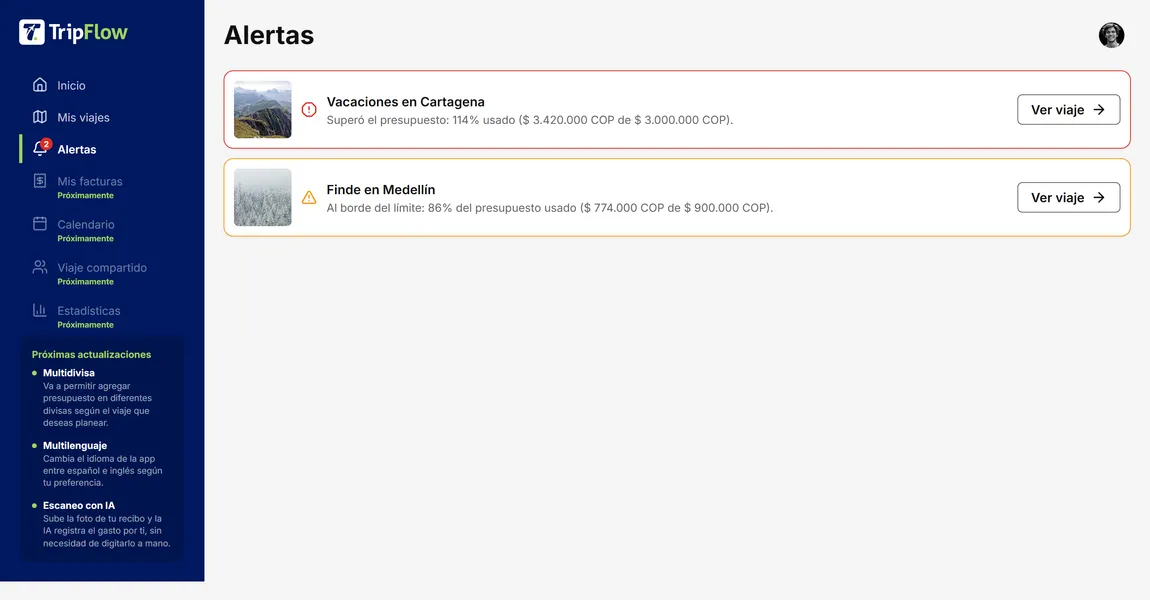
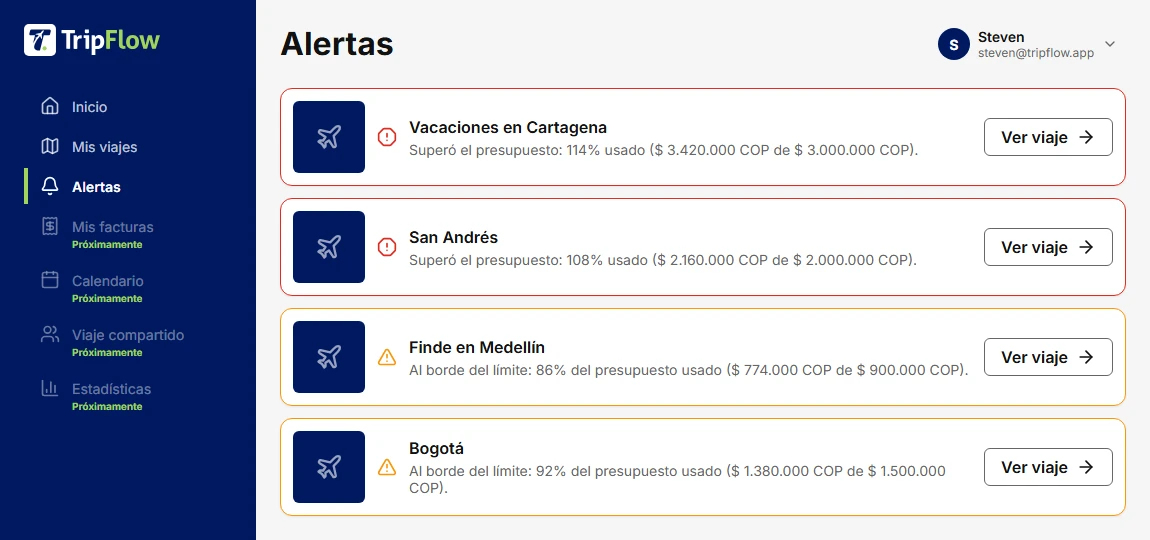
fix(landing): regenera capturas de whatsapp, calendar y alertas con contenido completo en vez de espacios vacios
Claude-Session: https://claude.ai/code/session_01Nwk6v4zo9ov8bnx9q719J9

diff --git a/src/pages/landing.js b/src/pages/landing.js
@@ -99,18 +99,18 @@ function stepCard({ title, text, image }, index) {
 
 // Las 6 tarjetas comparten EXACTAMENTE el mismo tratamiento visual
 // (mismo marco de navegador, misma caja de imagen 16:10, mismo
-// object-fit) — ya no existe la distinción "browser"/"snippet" que
-// había antes, que dejaba las 2 últimas (WhatsApp/Calendar) como un
-// botón suelto sin marco ni contexto, con tamaño inconsistente frente
-// a las otras 4. whatsapp.png ahora es un mockup del bubble real de
-// WhatsApp con el mensaje que arma buildShareMessage() en
-// trip-detail.js (extraído del href real del link, no retipeado a
-// mano); google-calendar.png es el botón real "Agregar a Google
-// Calendar" clonado del DOM junto al badge de estado, en su contexto
-// real — ver docs/ai-process.md para el detalle de cómo se generaron.
-// width/height por imagen (dimensión real del .webp, ver docs/ai-process.md):
-// no son un placeholder, es la reserva de espacio nativa del navegador
-// (evita layout shift al cargar, mismo tamaño de caja que ya fija
+// object-fit: cover). Cada captura se generó (o regeneró) para llenar
+// esa caja con interfaz real, en vez de recortar/estirar una imagen
+// chica: alertas.webp es la pantalla real de Alertas con 4 viajes de
+// muestra (antes 2, dejaban medio contenedor vacío); whatsapp.webp y
+// google-calendar.webp son mockups de la interfaz COMPLETA de cada app
+// externa (header, fondo/grid, el mensaje o evento real, barra de
+// input/badge de origen) construidos a mano en 1150×719 (16:10 exacto,
+// sin necesidad de recorte) — ya no son solo el bubble o el botón
+// sueltos flotando en espacio en blanco. width/height por imagen
+// (dimensión real del .webp, ver docs/ai-process.md): no son un
+// placeholder, es la reserva de espacio nativa del navegador (evita
+// layout shift al cargar, mismo tamaño de caja que ya fija
 // aspect-ratio:16/10 en CSS — Lighthouse pedía además los atributos
 // HTML, no solo el aspect-ratio de CSS).
 // object-position por imagen: con object-fit:cover, la caja 16:10
@@ -155,7 +155,7 @@ const FEATURES = [
     text: "Verde mientras vas bien, naranja al 80% del límite, rojo al superarlo — el mismo criterio en Inicio, Alertas y cada viaje, siempre con ícono y texto, nunca solo color.",
     image: alertasImg,
     width: 1150,
-    height: 600,
+    height: 540,
     // Más ancha que la caja: cover recorta de los costados. "right"
     // se come sobre todo el sidebar de navegación (repetido en las
     // otras 5 capturas, no es información nueva acá) y conserva
@@ -168,17 +168,16 @@ const FEATURES = [
     title: "Compartir por WhatsApp",
     text: "Mandá un resumen del estado de tu viaje — gastado, restante, semáforo — directo por WhatsApp, sin exportar nada.",
     image: whatsappImg,
-    width: 920,
-    height: 382,
-    position: "65% center",
+    width: 1150,
+    height: 719,
   },
   {
     iconName: "calendar",
     title: "Integración con Google Calendar",
     text: "Si tu viaje tiene fechas, agregalo a tu calendario con un click — un link directo, sin pedirte permisos de tu cuenta.",
     image: calendarImg,
-    width: 822,
-    height: 478,
+    width: 1150,
+    height: 719,
   },
 ];
 

diff --git a/docs/ai-process.md b/docs/ai-process.md
@@ -160,6 +160,8 @@
 
 | 2026-08-25 | Chequeo final de limpieza, performance, SEO y verificación mobile de la landing antes de la entrega (design@alegra.com) — sin agregar funcionalidad nueva, solo auditar y corregir. 4 categorías: (1) limpieza de código (build sin errores, consola sin warnings, código/imágenes muertas); (2) performance (peso de imágenes, lazy loading, pesos de fuente sin uso, Lighthouse antes/después); (3) SEO/metadatos (title, description, favicon, Open Graph, html lang, alt en todas las imágenes); (4) verificación mobile completa | **Limpieza**: `vite build` sin errores ni warnings nuevos (el único warning existente, "chunk mayor a 500kB", es del bundle `index.js` de TODA la app, no de la landing — necesitaría code-splitting por ruta, cambio de arquitectura fuera de alcance de esta auditoría). Consola del navegador limpia en desktop y mobile (0 errores/warnings, 0 requests fallidos, verificado con Playwright escaneando toda la página con scroll). Encontré y borré `.feature-card-full` en `landing.css`, una clase ya sin ningún uso en `landing.js` desde una tarea anterior (confirmado con `grep`) — dead code real, no una que dejé a medias yo. **Performance — la parte más grande de esta tarea**: audité el peso de las 10 imágenes de la landing y encontré que pesaban ~8.75MB en total, varias muy por encima del rango pedido (`inicio.png` 1047KB, las 3 fotos de "Cómo funciona" 1.8-2.3MB CADA UNA, `Imagen-fondo-banner-principal.png` 889KB) — ninguna había sido optimizada al subirla, todas a resolución nativa de cámara/captura/generador de imagen, mucho más grande de lo que se ve en pantalla (el slot más ancho de toda la página, el hero, nunca pasa de ~700px reales). No tengo `sharp` instalado en este entorno (ya lo había confirmado en una tarea anterior), pero `npx --yes sharp-cli` sí pudo descargarse y correr — con eso reescalé cada imagen a su ancho de display real ×2 (retina) y las reencodeé a WebP (calidad 78-85 según el contenido: capturas de UI más alto, fotos más bajo), revisando cada resultado visualmente antes de reemplazar el archivo — ninguna con pérdida perceptible. Resultado: ~8.75MB → ~455KB (95% menos). Actualicé los imports/URLs de `landing.js` de `.png` a `.webp` y borré los 10 PNG originales. El hero (arriba del fold) correctamente no lleva `loading="lazy"` — le sumé `fetchpriority="high"` en cambio, es el elemento LCP de la página; el resto ya tenía lazy de tareas anteriores. Revisé los pesos de Google Fonts: el link pedía 400;500;600;700;800;900 pero `grep` confirmó que ningún `font-weight:500` ni `:900` existe en NINGUNA hoja de estilo del proyecto — los saqué del link (2 archivos de fuente menos por descargar). Corrí Lighthouse (funcionó vía `npx --yes lighthouse`, pese a no estar instalado) contra el build de producción servido con `vite preview`: Performance 63→70, SEO 92→100, Accessibility 94→100. Aclaración importante sobre esos números: NO son un "antes/después" real de la optimización de imágenes — ya las había reemplazado por WebP cuando se me ocurrió medir con Lighthouse, así que las 2 corridas comparadas reflejan los fixes de accesibilidad/SEO de más abajo, no el salto de las imágenes; el dato real de antes/después de las imágenes es el peso en bytes (~8.75MB → ~455KB), que sí medí de forma precisa en ambos extremos. Además, correr Lighthouse contra `vite preview` local (sin HTTP/2, sin compresión, sin CDN) no es representativo del deploy real en Vercel — los tiempos de FCP/LCP (3.7s/5.8s) son mucho más lentos de lo esperable para ~500KB de imágenes, casi seguro por el throttling simulado de Lighthouse combinado con el servidor local, no por el peso real de la página; lo dejo señalado en vez de presentar esos segundos como el estado real en producción. **SEO/Accessibility** (mismo Lighthouse, categorías aparte): agregué `<link rel="icon">` (favicon, no existía ninguno) con el isotipo de marca ya existente en `public/img/`; `<title>` pasó de "Tripflow" a "TripFlow — Control de presupuesto de viaje"; reescribí `<meta name="description">` con una frase más completa; agregué Open Graph completo (og:title/description/image/url, más twitter:card) con URL absoluta al dominio real de deploy (`tripflow-ashen-chi.vercel.app`, confirmado en README.md) — importante porque el link va directo a design@alegra.com. `<html lang="es">` ya estaba bien, no hacía falta tocarlo. Agregué `alt` descriptivo a la única imagen que lo tenía vacío (los 3 pasos de "Cómo funciona", antes `alt=""` — el resto ya tenía alt descriptivo de tareas anteriores). Lighthouse encontró 3 problemas reales que no estaban en el pedido explícito pero caen directo en "corregir lo que aparezca": (a) el `<em>bajo control</em>` del título del hero tenía ~1.6:1 de contraste (necesita 3:1) — es la MISMA corrección que ya había hecho en una tarea anterior de esta sesión (`--color-status-ok-text` en vez de `--color-accent`), pero el archivo tenía `--color-accent` de nuevo al momento de esta auditoría (cambio en disco fuera de mis ediciones, ya señalado por el sistema en su momento); restauré la versión con contraste correcto. (b) La página no tenía ningún landmark `<main>` — envolví el contenido real (hero + las 3 secciones) en `<main>`, dejando el nav flotante y el footer como hermanos afuera (semánticamente correctos como `<nav>`/`<footer>`, no adentro de `<main>`). (c) No existía `public/robots.txt` — Lighthouse interpretaba el fallback HTML de la SPA como un robots.txt inválido (43 errores); agregué uno mínimo (`User-agent: * / Allow: /`). También agregué `width`/`height` explícitos a las 11 imágenes de la landing (dimensión real de cada `.webp`, no un valor inventado) — Lighthouse los pedía aparte del `aspect-ratio` de CSS que ya reservaba el espacio visualmente (CLS ya era 0.015, casi perfecto, pero el audit específico de HTML seguía fallando sin el atributo). Resultado final: SEO 92→100, Accessibility 94→100. **Verificación mobile**: recorrido completo con Playwright (390px de viewport, con scroll forzado a lo largo de toda la página para disparar las imágenes lazy) — sin overflow horizontal en ningún punto, sin imágenes rotas, 0 errores de consola. Encontré 4 elementos clickeables con menos de 44px de alto (logo del nav 28px, botón hamburguesa 36px, link "Código en GitHub" del footer 37px, y el link inline "docs/ai-process.md" dentro de una oración del footer, que por ser texto corrido no debería forzarse a 44px como si fuera un botón) — no los agrandé por mi cuenta: tocar el alto del pill flotante o del hamburguesa es un cambio de proporciones visuales del nav, una decisión de diseño ya tomada en tareas anteriores de esta sesión, no un bug a corregir en silencio; lo dejo como hallazgo para que decidas. No pude probar en dispositivo físico real (mismo límite ya señalado en tareas anteriores de esta sesión) — verifiqué con Playwright en varios anchos de viewport en su lugar. Verifiqué con `vite build` que compilara, sin warnings nuevos, en cada paso de esta auditoría | Hallazgos que requieren tu decisión, sin tocar: los 4 tap targets bajo 44px (logo/hamburguesa/link de GitHub del footer), el bundle único de 694KB de JS que no es solo de la landing (necesitaría code-splitting por ruta para separarlo del resto de la app), y el request de Google Fonts que Lighthouse sigue marcando como render-blocking (~900ms estimados, aplicaría a toda la app, no solo la landing) — ninguno de los 3 lo toqué porque cada uno implica un cambio de diseño/arquitectura más allá de "auditar y corregir lo que aparezca" |
 
+| 2026-08-25 | Ajustar el `feature-grid` de la landing: primer pedido vago ("hay un espacio vacío atrás del padding del grid, en desktop y mobile"), que resolví cambiando `.browser-frame-media` de `object-fit:contain` a `cover` con un `object-position` a mano por imagen (top/right/65% center según cuánto se alejaba cada captura nativa de la caja 16:10). El usuario corrigió el enfoque después: "eso NO es el enfoque correcto… se resuelve generando capturas con MÁS contenido real, no estirando imágenes vacías" — pidió regenerar las 3 capturas que realmente tenían fondo vacío *dentro del archivo* (Alertas, WhatsApp, Google Calendar), dejando las otras 3 (Dashboard, Nuevo viaje, Registro de gastos) sin tocar porque su recorte por `cover` ya caía sobre contenido real, no sobre espacio en blanco | Revertí `width`/`height`/`position` de las 3 imágenes afectadas, no el CSS de `.browser-frame-media` (`cover` en sí seguía siendo válido para las 3 que no tenían el problema real). **Alertas**: regeneré con el mismo harness Playwright de tareas anteriores (import real de `renderShell`/`accountMenu`/`getBudgetStatus`/`getStatusMeta`/`icon`/`formatCurrency` vía Vite dev server, con datos de viaje fijados a mano en vez de `getTripAlerts()` real, que depende de Firestore) pero con 4 viajes de alerta en vez de 2 (agregué "San Andrés" en danger y "Bogotá" en warning, sin foto — reusa el placeholder de avión ya documentado en "Estado vacío del placeholder de viaje" de `product-decisions.md` en vez de salir a buscar fotos de stock nuevas). Verde/"en control" queda afuera a propósito: `getTripAlerts()` real NUNCA devuelve viajes en ok (por diseño, esta pantalla es solo para los que necesitan atención), así que forzar un tercer estado ahí habría sido inventar un comportamiento que la app real no tiene — se lo señalé al usuario en vez de fabricarlo silenciosamente pese a que el pedido decía "si es posible". Medí con `boundingBox()` dónde termina realmente el último `.alert-item` (516px) en vez de adivinar un alto de canvas fijo como la versión anterior (que había usado 600px con los 2 items terminando en ~240px, de ahí el espacio muerto original) — con eso fijé el viewport a 1150×540, ajustado al contenido real. A esa altura la tarjeta "Próximas actualizaciones" del sidebar (empujada al fondo por `flex:1` en `.sidebar-nav`) quedaba cortada a mitad de frase porque no alcanzaba a renderizarse completa — la saqué del DOM solo en este harness (`.sidebar-upcoming.remove()`) antes de capturar, no de la app real ni de las otras 5 imágenes, que sí tienen alto de sobra para mostrarla completa. **WhatsApp y Google Calendar**: a diferencia de Alertas (pantalla real de TripFlow), estas 2 nunca fueron capturas de la app — son mockups de la interfaz de una app externa (antes, solo el bubble/botón recortado del DOM real de Detalle de viaje). Construí cada una desde cero como HTML/CSS (headers, colores y patrones reales de cada marca — mismo criterio que ya se usó para el bubble verde de WhatsApp en la versión anterior, no una regla nueva) directamente a 1150×719 (16:10 exacto), así ninguna de las 2 necesita recorte de `cover` en absoluto. WhatsApp: header verde con avatar (isotipo de marca real en `public/img/Isotipo-fondo-claro.svg`) + nombre "TripFlow", fondo de chat con el patrón punteado característico, el aviso real de "mensajes cifrados de extremo a extremo" (elemento genuino de la UI de WhatsApp, no inventado) para llenar el espacio arriba del mensaje con interfaz auténtica en vez de una segunda conversación fabricada, el mismo bubble/texto ya generado en una tarea anterior (sin tocarlo), y la barra de input real (emoji, clip, mic) vacía. Google Calendar: header con ícono de 4 colores + wordmark, vista de semana con los 7 días, el evento "Vacaciones en Cartagena" como barra que cruza viernes-domingo (mismo patrón real de Calendar para eventos de varios días), grid de horas debajo (tuve que corregir un bug propio: las etiquetas de hora se auto-posicionaban en una columna 9 implícita, fuera del grid visible, por un conflicto de `grid-column` con un div de borde duplicado en la misma celda — lo detecté al revisar el primer screenshot antes de darlo por terminado, no lo dejé pasar), y un badge flotante "Agregado desde TripFlow" en la esquina, tal como pedía el punto 2 (protagonista es Calendar, el origen queda como detalle superpuesto). Convertí los 3 PNG de Playwright a `.webp` con Python/Pillow (`sharp`/`cwebp` no están instalados en este entorno, ya señalado en la auditoría anterior) calidad 90. Borré los 3 harness HTML temporales al terminar (mismo patrón de siempre: nunca se commitean). Verifiqué las 6 tarjetas una por una, en desktop y mobile, con capturas de `.browser-frame-media` aisladas antes de dar por terminada la tarea | El pedido explícito distinguía "recorte aceptable de contenido real" (lo que ya tenían Dashboard/Nuevo viaje/Registro de gastos, y lo que sigue teniendo Alertas con su sidebar parcialmente recortado por `object-position:right`) de "espacio vacío/blanco inventado" (lo que tenían las 3 regeneradas) — el criterio que usé para decidir qué tocar y qué dejar fue exactamente esa distinción, no "cuánto se recorta" en sí |
+
 ## Herramientas usadas
 
 - Claude Code — desarrollo del repo local, commits
